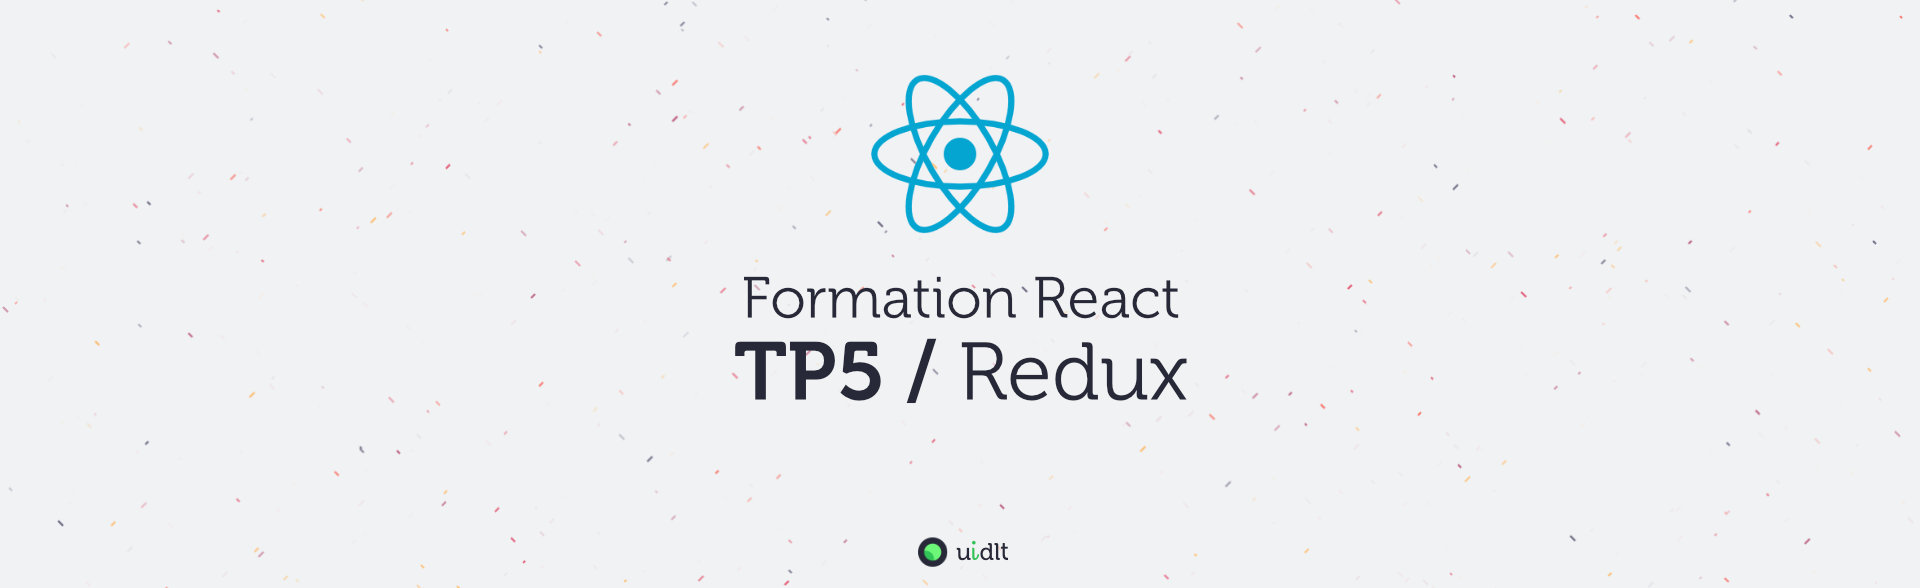
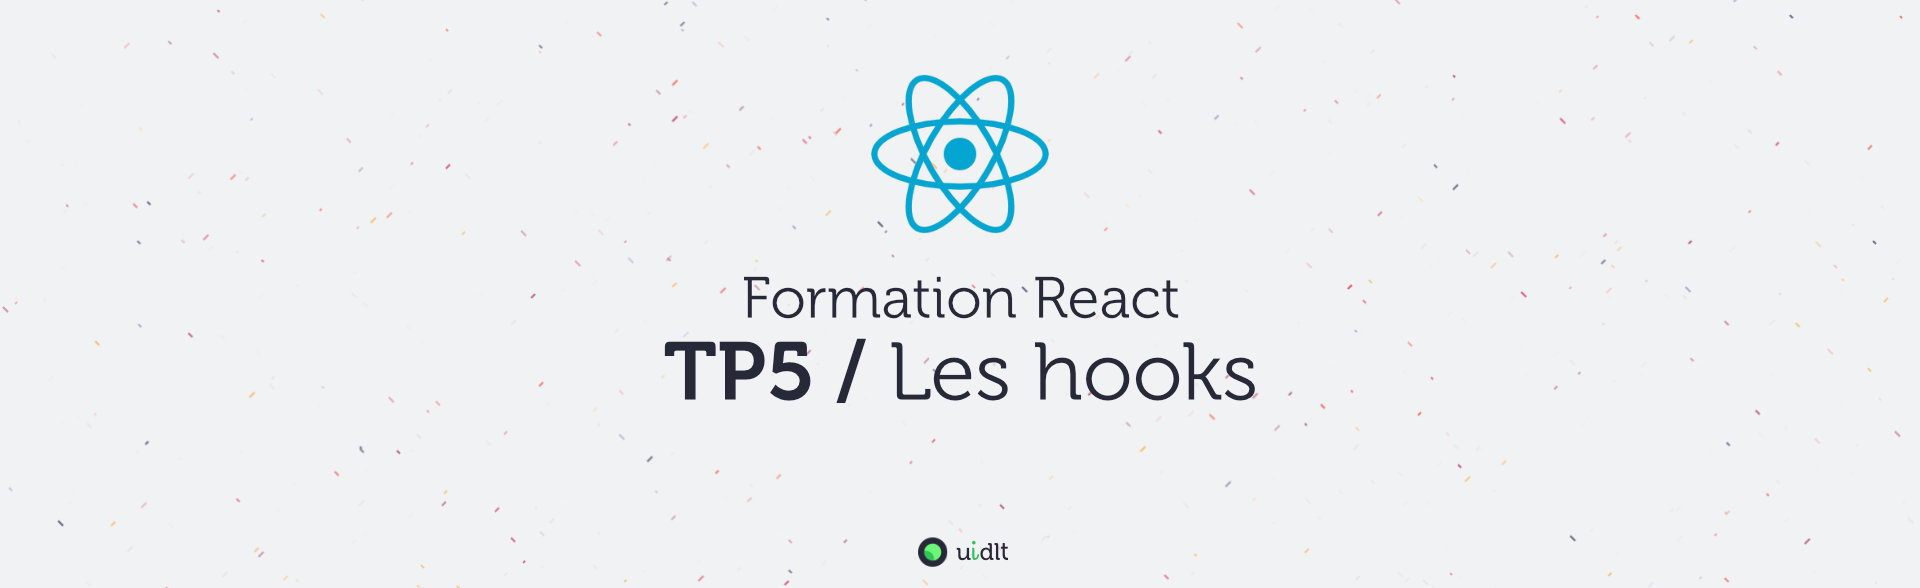
remplacement instructions redux->hooks

Changed region(s): [[0.3438, 0.5816, 0.6562, 0.7041]]

diff --git a/B-hooks.md b/B-hooks.md
@@ -1,0 +1,36 @@
+<img src="images/readme/header-small.jpg" >
+
+# B. Hooks  <!-- omit in toc -->
+
+## Sommaire <!-- omit in toc -->
+- [B.1. useState()](#b1-usestate)
+- [B.2. useEffect()](#b2-useeffect)
+
+## B.1. useState()
+**À l'aide du pdf du cours, convertissez la classe `Navigator` en function component** en utilisant le hook **[useState](https://reactjs.org/docs/hooks-reference.html#usestate)** pour remplacer le `state` local et les instructions `this.setState()`.
+
+> _**NB :** comme le state de `Navigator` contient 2 valeurs indépendantes, je vous recommande d'utiliser 2 `useState()` distincts : 1 pour `currentPage` et 1 autre pour `params`._
+
+Vous devriez en principe remarquer rapidement que le nouveau code est beaucoup plus léger que le précédent alors que pourtant on n'a rien perdu en fonctionnalité ! C'est l'un des avantages majeurs des function components avec les hooks : un code moins verbeux et où le code "important" est mieux mis en avant.
+
+## B.2. useEffect()
+**Convertissez ensuite `VideoList` en function component**.
+
+Vous aurez là aussi besoin du hook [useState()](https://reactjs.org/docs/hooks-reference.html#usestate) vu précédemment pour remplacer `this.state.videos`.
+
+**Mais pour remplacer le `componentDidMount()` vous aurez aussi besoin d'un autre hook fourni de base par React : [useEffect()](https://reactjs.org/docs/hooks-reference.html#useeffect)**
+
+> _**NB : souvenez vous,** dans un function component, les props sont passées en paramètre à la fonction au lieu d'être dans le `this` (qui n'est plus utilisable, puisqu'on n'est plus dans une classe !) :_
+> ```jsx
+> function MyComponent(props) {
+> 	return `My name is ${props.name}`;
+> }
+> ```
+> _Je vous conseille surtout d'utiliser le **destructuring** des props directement dans la signature de la fonction, ça fera gagner beaucoup en lisibilité à votre code et surtout l'IDE pourra vous offrir l'auto complétion des props du composant quand vous allez l'instancier en JSX :_
+> ```jsx
+> function MyComponent( {name} ) {
+> 	return `My name is ${name}`;
+> }
+
+## Étape suivante <!-- omit in toc -->
+Si tout fonctionne, vous pouvez passer à l'étape suivante : [C. plus de hooks](C-plus-de-hooks.md)

diff --git a/C-plus-de-hooks.md b/C-plus-de-hooks.md
@@ -1,0 +1,25 @@
+<img src="images/readme/header-small.jpg" >
+
+# C. Plus de hooks !  <!-- omit in toc -->
+
+**Maintenant que l'on maîtrise les deux hooks de base de React, allons y et convertissons l'ensemble de nos composants restants aux hooks !**
+
+## Sommaire <!-- omit in toc -->
+- [C.1. useRef() & VideoDetail](#c1-useref-videodetail)
+- [C.2. VideoForm](#c2-videoform)
+- [C.3. CommentForm](#c3-commentform)
+
+## C.1. useRef() & VideoDetail
+**En vous inspirant de ce que vous avez déjà fait sur `Navigator` et `VideoList` convertissez maintenant `VideoDetail` en function component !**
+
+Vous aurez besoin pour cela des hooks déjà vu comme [useState()](https://reactjs.org/docs/hooks-reference.html#usestate), [useEffect()](https://reactjs.org/docs/hooks-reference.html#useeffect) **mais aussi du hook [useRef()](https://reactjs.org/docs/hooks-reference.html#useref) pour remplacer `this.player`** (_référence vers la balise `<video>`_)
+
+## C.2. VideoForm
+**Attaquons-nous maintenant au composant `VideoForm`.**
+
+Rien de très spécial ici : du [useState()](https://reactjs.org/docs/hooks-reference.html#usestate) et du [useRef()](https://reactjs.org/docs/hooks-reference.html#useref) par-ci, par-là.
+
+## C.3. CommentForm
+**Enfin, un dernier (facile) pour la route : convertissez la classe `CommentForm` en function component**.
+
+Cette fois rien de neuf, donc je ne vous donne pas d'indice ! :)

diff --git a/README.md b/README.md
@@ -1,11 +1,11 @@
 <img src="images/readme/header.jpg" />
 
 ## Objectifs
-- Améliorer l'architecture de notre appli avec Redux
+- Simplifier notre code à l'aide des hooks
 
 ## Sommaire
 Pour plus de clarté, les instructions du TP se trouvent dans des fichiers distincts (un fichier par sujet), procédez dans l'ordre sinon, ça fonctionnera beaucoup moins bien ! :
 
 1. [A. Préparatifs](A-preparatifs.md)
-2. [B. Les bases de Redux](B-les-bases.md)
-3. [C. Optimisations](C-optimisations.md)
+2. [B. Les hooks de base](B-hooks.md)
+3. [C. Plus de hooks](C-plus-de-hooks.md)
